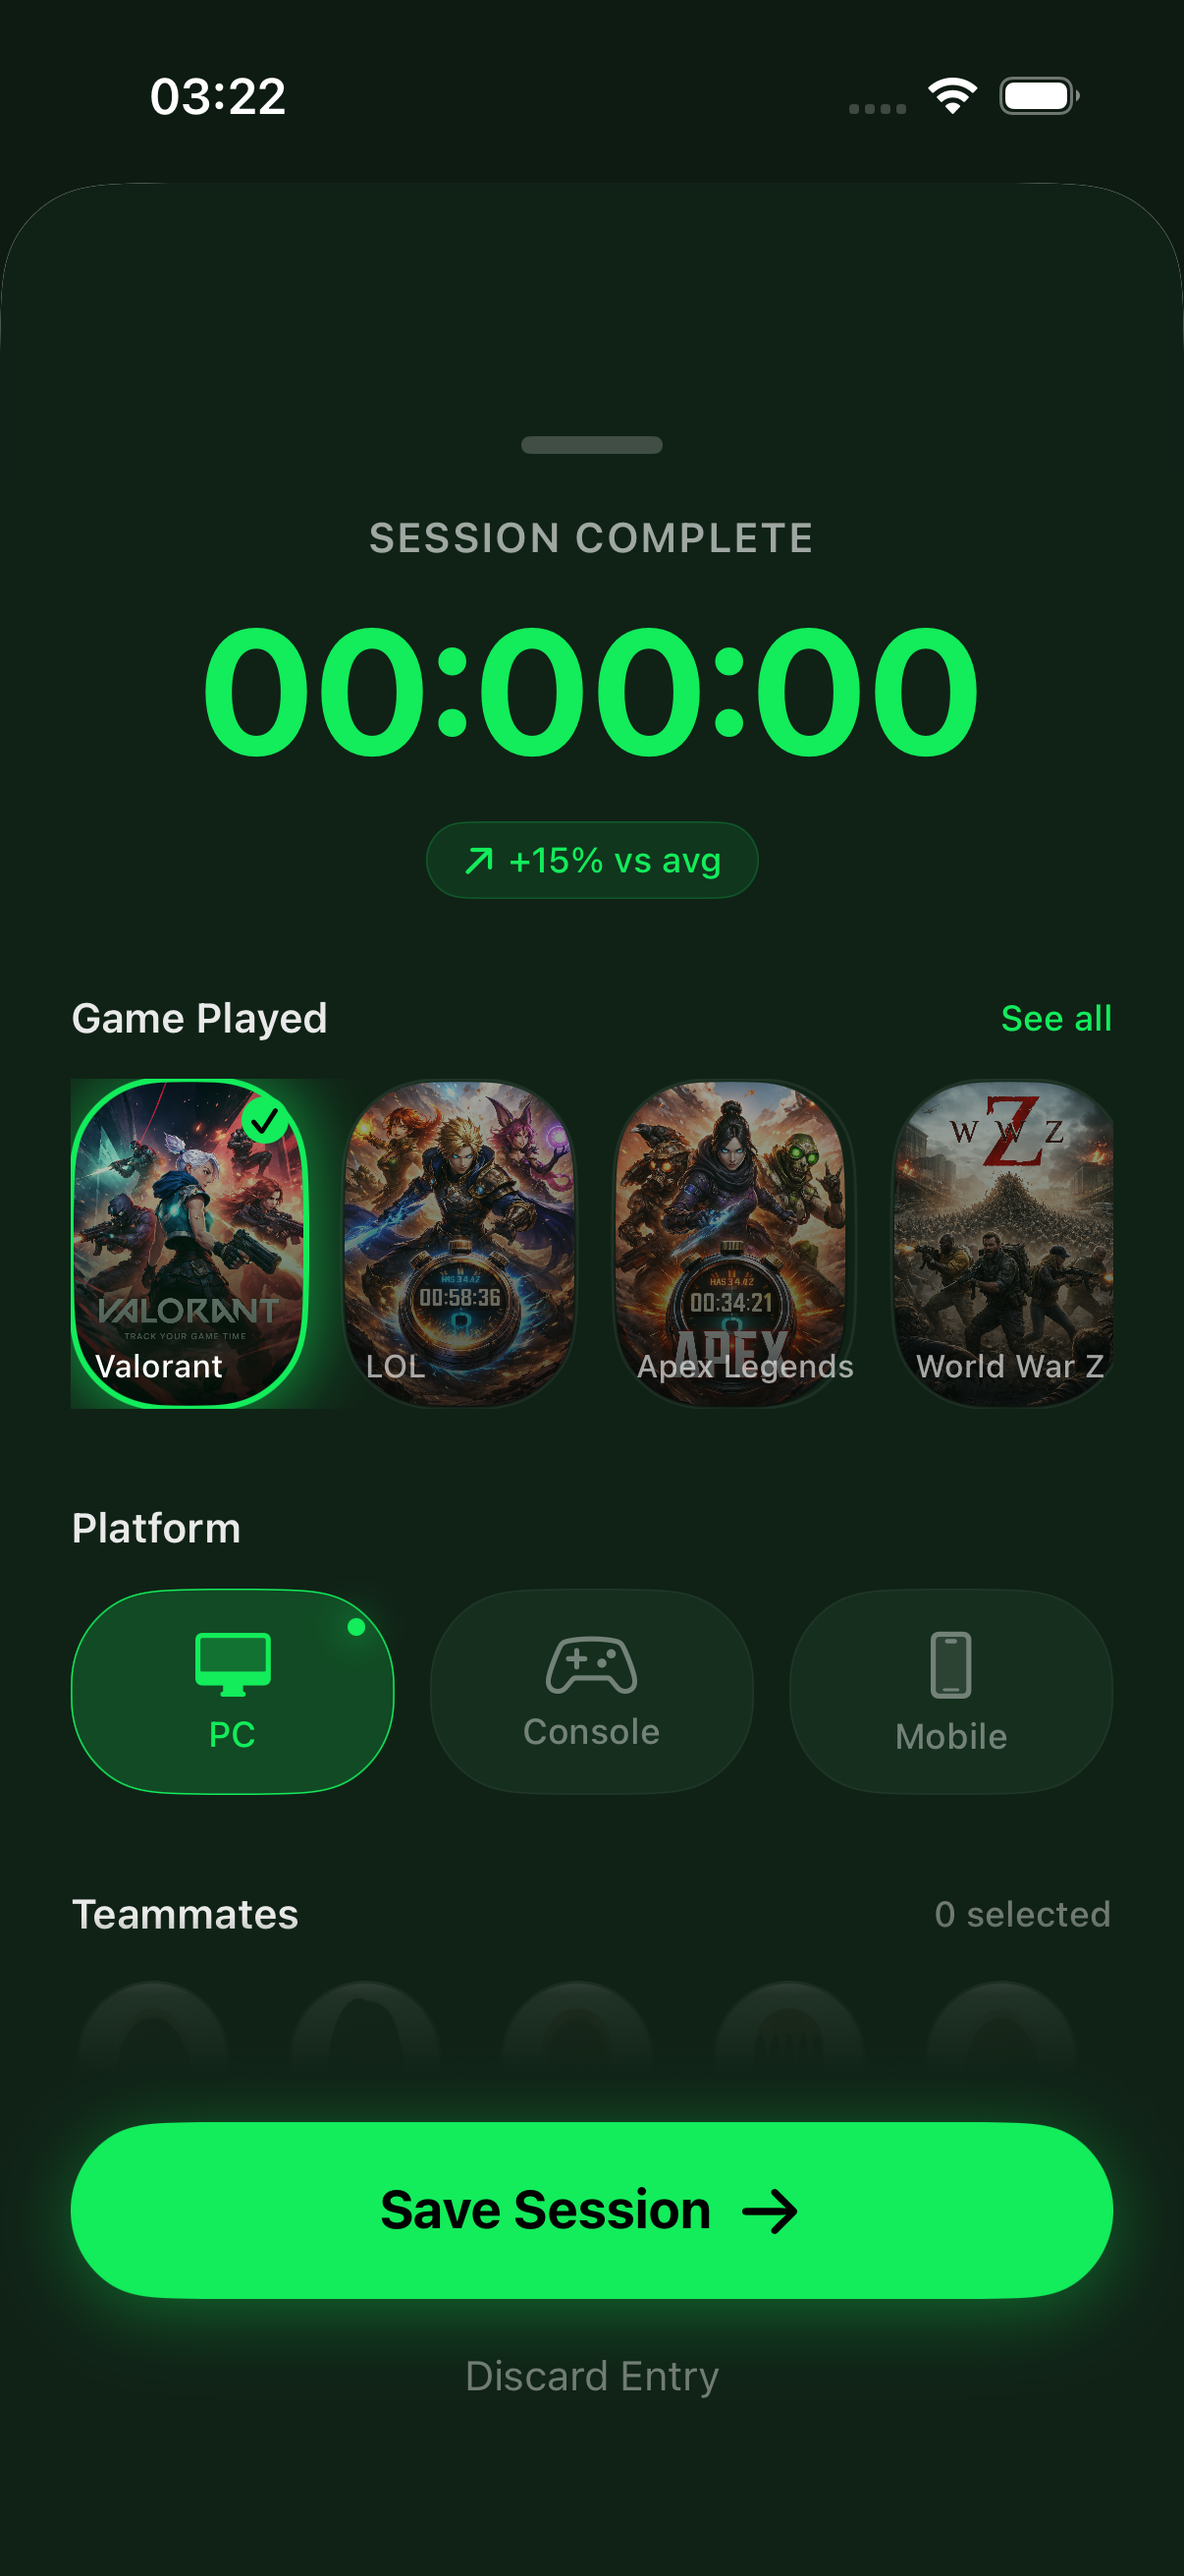
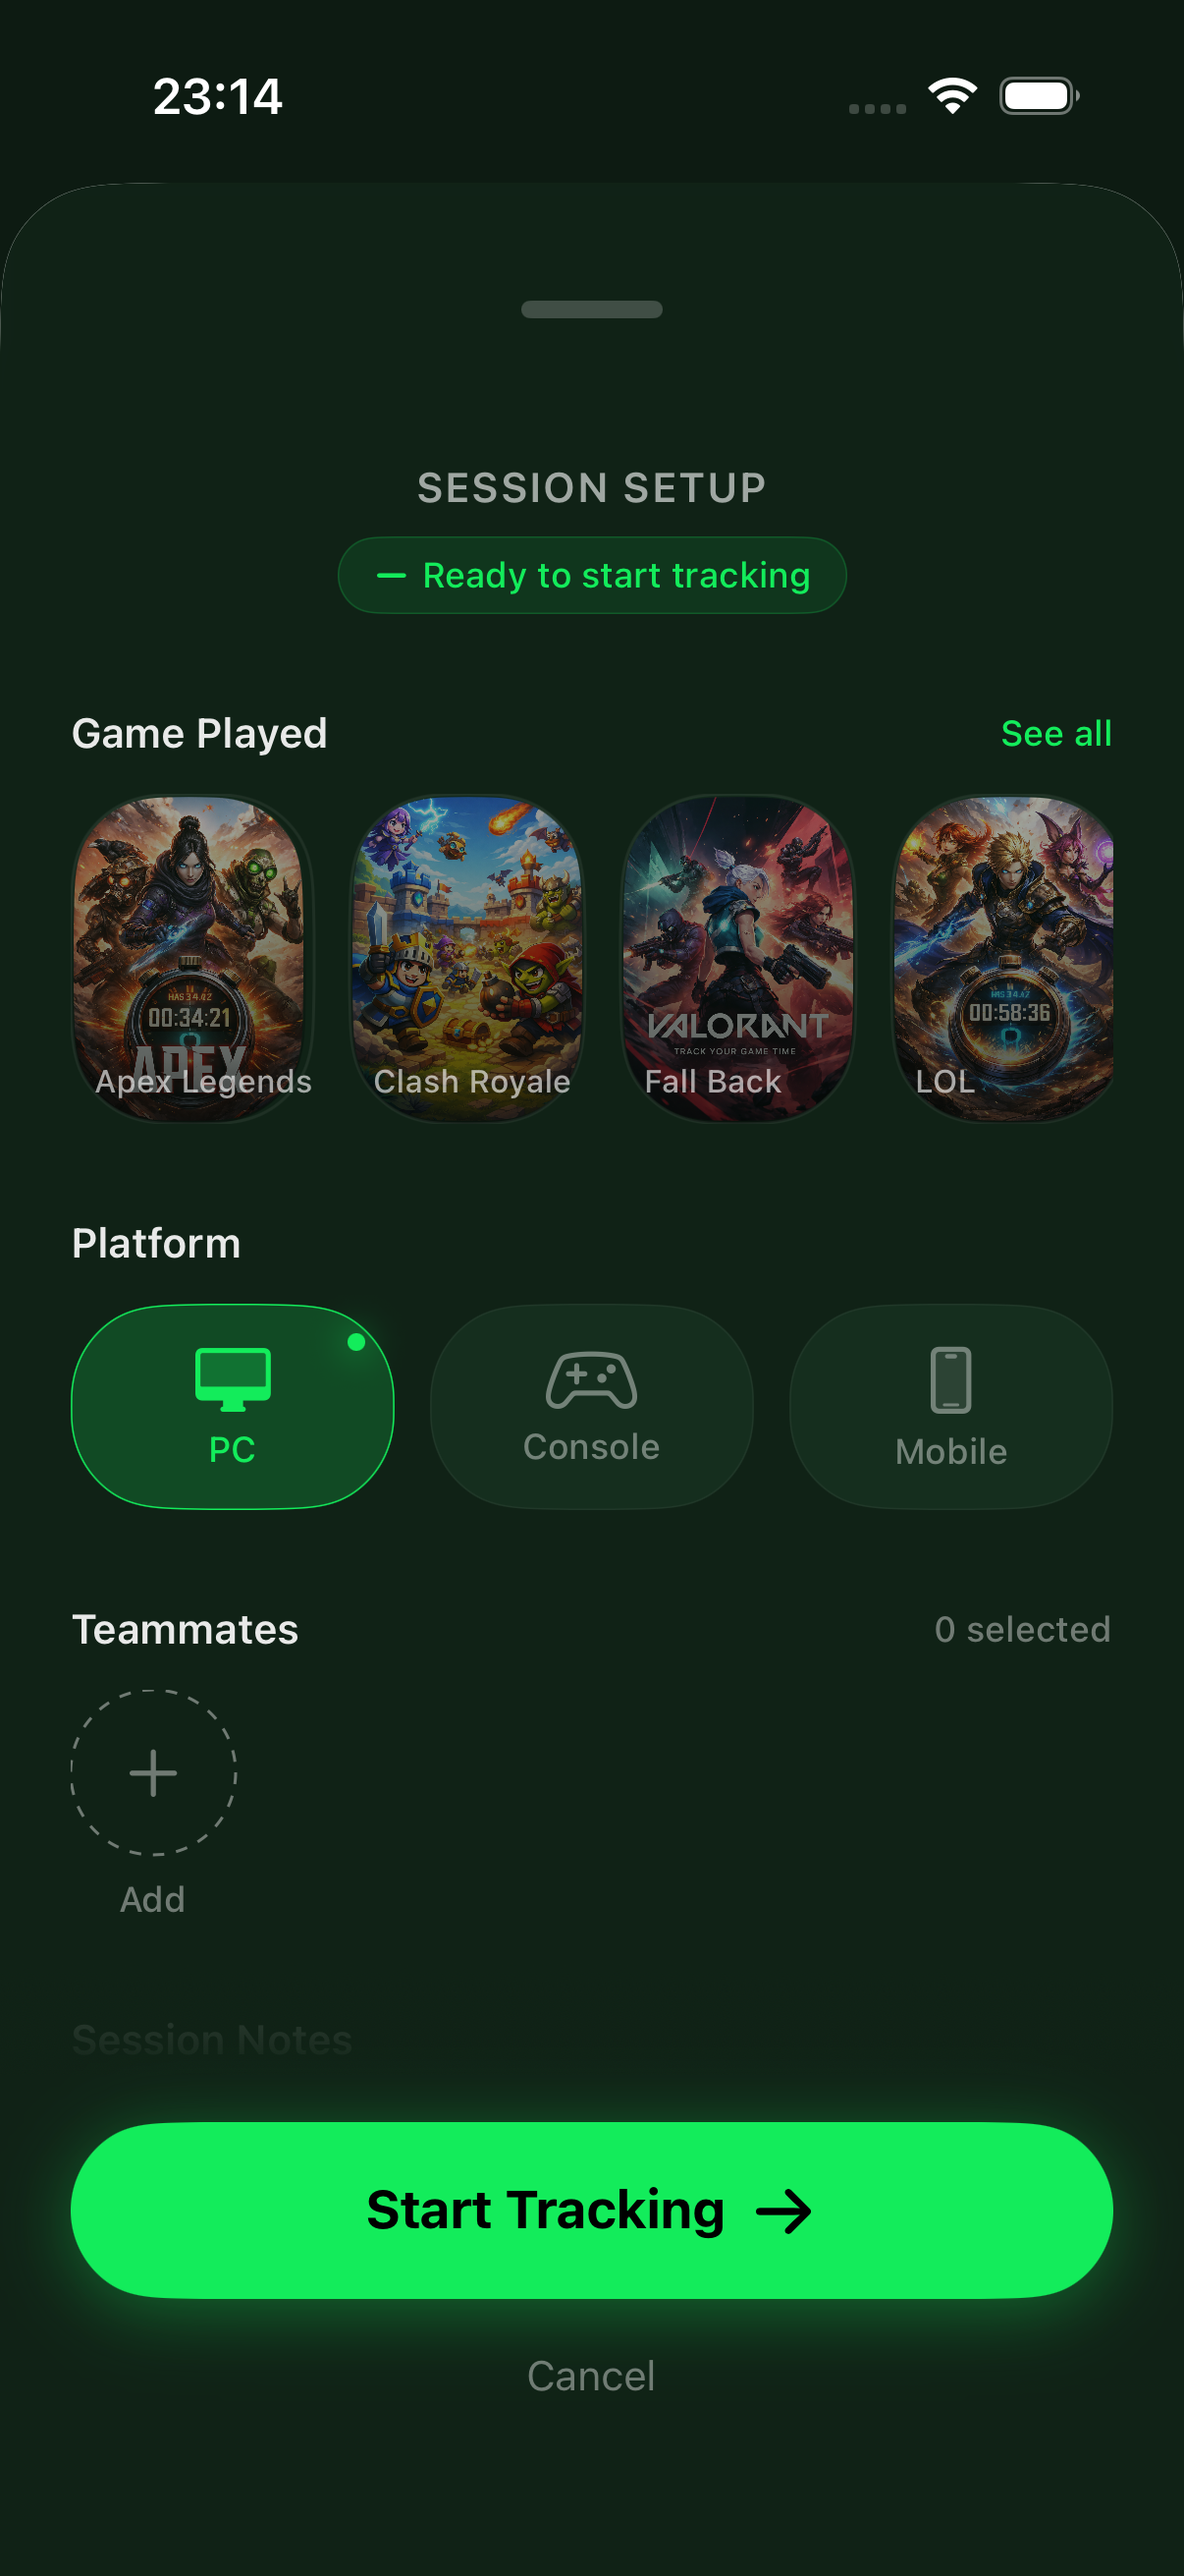
change screenshots test

diff --git a/ScreenshotUITests/ScreenshotUITests.swift b/ScreenshotUITests/ScreenshotUITests.swift
@@ -15,43 +15,39 @@ final class ScreenshotUITests: XCTestCase {
     }
 
     @MainActor
-    func testScreenshotHome() throws {
+    func testScreenshotHomeIdleNoResume() throws {
         let app = launchAppForScreenshots()
 
-        waitForElementToAppear(app.staticTexts["Quick Track"])
-        attachScreenshot(from: app, named: "home.png")
+        waitForElementToAppear(element(in: app, id: "action.startTracking"))
+        XCTAssertFalse(element(in: app, id: "card.resumeLastSetup").exists)
+        attachScreenshot(from: app, named: "home_idle_no_resume.png")
     }
 
     @MainActor
-    func testScreenshotHomeStart() throws {
+    func testScreenshotHomeIdleResume() throws {
         let app = launchAppForScreenshots()
-        ensureTrackingIsIdle(in: app)
 
-        let startButton = element(in: app, id: "action.startTracking")
-        startButton.tap()
+        startTrackingFromHome(in: app)
+        stopTracking(in: app)
 
-        let addSessionScreen = element(in: app, id: "screen.addSession")
-        waitForElementToAppear(addSessionScreen)
-        waitForElementToAppear(element(in: app, id: "hero.addSessionTitle"))
-        waitForElementToAppear(element(in: app, id: "section.gamePlayed"))
+        let resumeCard = element(in: app, id: "card.resumeLastSetup")
+        waitForElementToAppear(resumeCard)
+        attachScreenshot(from: app, named: "home_idle_resume.png")
+    }
 
-        let selectableGameButtons = app.descendants(matching: .any).matching(
-            NSPredicate(format: "identifier BEGINSWITH %@", "action.selectGame.")
-        )
-        let firstSelectableGameButton = selectableGameButtons.firstMatch
-        waitForElementToAppear(firstSelectableGameButton)
-        firstSelectableGameButton.tap()
+    @MainActor
+    func testScreenshotHomeRunning() throws {
+        let app = launchAppForScreenshots()
 
-        let saveButton = element(in: app, id: "action.saveSession")
-        waitForElementToAppear(saveButton)
-        saveButton.tap()
+        startTrackingFromHome(in: app)
 
         let stopButton = element(in: app, id: "action.stopTracking")
+        let pauseResumeButton = element(in: app, id: "action.pauseResumeTracking")
         waitForElementToAppear(stopButton)
-        attachScreenshot(from: app, named: "home_start.png")
-
-        stopButton.tap()
-        waitForElementToAppear(element(in: app, id: "action.startTracking"))
+        waitForElementToAppear(pauseResumeButton)
+        waitForElementToAppear(app.staticTexts["KEEP GOING"])
+        XCTAssertFalse(element(in: app, id: "card.resumeLastSetup").exists)
+        attachScreenshot(from: app, named: "home_running.png")
     }
 
     @MainActor
@@ -125,15 +121,8 @@ final class ScreenshotUITests: XCTestCase {
     @MainActor
     func testScreenshotSessionSetup() throws {
         let app = launchAppForScreenshots()
-        ensureTrackingIsIdle(in: app)
+        openPreStartSetupFromHome(in: app)
 
-        let startButton = element(in: app, id: "action.startTracking")
-        startButton.tap()
-
-        let addSessionScreen = element(in: app, id: "screen.addSession")
-        waitForElementToAppear(addSessionScreen)
-        waitForElementToAppear(element(in: app, id: "hero.addSessionTitle"))
-        waitForElementToAppear(element(in: app, id: "section.gamePlayed"))
         let notesSection = element(in: app, id: "section.sessionNotes")
         waitForElementToAppear(notesSection)
         let startTrackingButton = element(in: app, id: "action.saveSession")
@@ -255,6 +244,41 @@ final class ScreenshotUITests: XCTestCase {
         }
 
         XCTFail("Unable to reach home idle state: neither start nor stop tracking button appeared.")
+    }
+
+    private func openPreStartSetupFromHome(in app: XCUIApplication) {
+        ensureTrackingIsIdle(in: app)
+        let startButton = element(in: app, id: "action.startTracking")
+        waitForElementToAppear(startButton)
+        startButton.tap()
+
+        waitForElementToAppear(element(in: app, id: "screen.addSession"))
+        waitForElementToAppear(element(in: app, id: "hero.addSessionTitle"))
+        waitForElementToAppear(element(in: app, id: "section.gamePlayed"))
+    }
+
+    private func startTrackingFromHome(in app: XCUIApplication) {
+        openPreStartSetupFromHome(in: app)
+
+        let selectableGameButtons = app.descendants(matching: .button).matching(
+            NSPredicate(format: "identifier BEGINSWITH %@", "action.selectGame.")
+        )
+        let firstSelectableGameButton = selectableGameButtons.firstMatch
+        waitForElementToAppear(firstSelectableGameButton)
+        firstSelectableGameButton.tap()
+
+        let saveButton = element(in: app, id: "action.saveSession")
+        waitForElementToAppear(saveButton)
+        saveButton.tap()
+
+        waitForElementToAppear(element(in: app, id: "action.stopTracking"))
+    }
+
+    private func stopTracking(in app: XCUIApplication) {
+        let stopButton = element(in: app, id: "action.stopTracking")
+        waitForElementToAppear(stopButton)
+        stopButton.tap()
+        waitForElementToAppear(element(in: app, id: "action.startTracking"))
     }
 
     private func openFriendSettingsFromAddSession(in app: XCUIApplication) {

diff --git a/Dragochi/Features/Main/MainView.swift b/Dragochi/Features/Main/MainView.swift
@@ -120,7 +120,7 @@ struct MainView: View {
 
     @ViewBuilder
     private var resumeLastSetupSection: some View {
-        if store.state.trackingStatus == .idle, let model = resumeLastSetupModel {
+        if shouldShowResumeLastSetup, let model = resumeLastSetupModel {
             DragonResumeLastSetupCard(
                 model: model,
                 isResumeEnabled: isResumeLastSetupEnabled,
@@ -237,6 +237,13 @@ struct MainView: View {
 
     private func selectedGameTitle(_ id: UUID) -> String {
         store.state.games.first(where: { $0.id == id })?.name ?? L10n.string("text_unknown_game", locale: locale)
+    }
+
+    private var shouldShowResumeLastSetup: Bool {
+        store.state.trackingStatus == .idle
+            && store.state.currentSessionID == nil
+            && store.state.trackingStartAt == nil
+            && store.state.activeSetup == nil
     }
 
     private var resumeLastSetupModel: DragonResumeLastSetupModel? {

diff --git a/Dragochi/AppDependencies.swift b/Dragochi/AppDependencies.swift
@@ -41,7 +41,10 @@ struct AppDependencies {
     }
 
     private static func makeCatalogDefaults() -> UserDefaults {
-        if ProcessInfo.processInfo.environment["XCTestConfigurationFilePath"] != nil {
+        let processInfo = ProcessInfo.processInfo
+        let isRunningTests = processInfo.environment["XCTestConfigurationFilePath"] != nil
+        let isUITesting = processInfo.arguments.contains("-ui-testing")
+        if isRunningTests || isUITesting {
             return UserDefaults(suiteName: "dragochi.catalog.defaults.\(UUID().uuidString)") ?? .standard
         }
         return .standard

diff --git a/screenshots/README.md b/screenshots/README.md
@@ -4,8 +4,9 @@ This directory stores baseline UI screenshots used for visual comparison during 
 
 Expected files:
 
-- `home.png`
-- `home_start.png`
+- `home_idle_no_resume.png`
+- `home_idle_resume.png`
+- `home_running.png`
 - `history.png`
 - `stats.png`
 - `settings.png`
@@ -16,7 +17,9 @@ Expected files:
 
 ## Narrative Mapping (Game Life Diary framing)
 
-- `home*.png`: moment capture and companion check-in entry point.
+- `home_idle_no_resume.png`: home quick tracker at first-use idle state.
+- `home_idle_resume.png`: home idle state after completing a tracked session (resume card visible).
+- `home_running.png`: home running state while active tracking is in progress.
 - `history.png`: life diary timeline review surface.
 - `stats.png`: reflection-oriented monthly pattern summary.
 - `settings.png`: sync and memory safety controls.

diff --git a/README.md b/README.md
@@ -126,8 +126,9 @@ xcodebuild test \
 ## UI Screenshot Baseline Workflow
 
 `ScreenshotUITests` captures named XCTest attachments:
-- `home.png`
-- `home_start.png`
+- `home_idle_no_resume.png`
+- `home_idle_resume.png`
+- `home_running.png`
 - `history.png`
 - `stats.png`
 - `settings.png`
